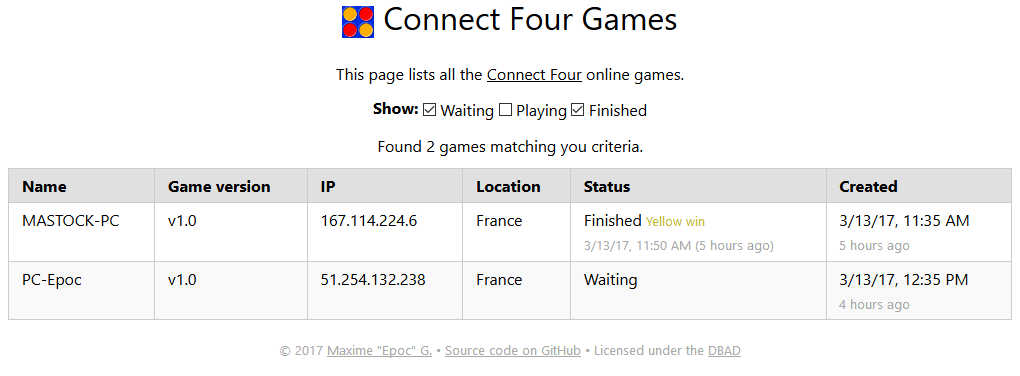
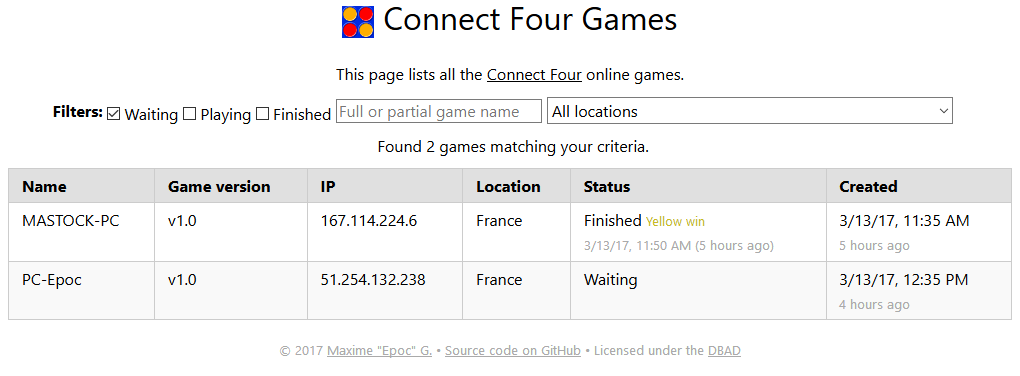
Add game name and location filters on the web page

Changed region(s): [[0.0304, 0.2633, 0.6382, 0.3218], [0.5775, 0.3803, 0.6382, 0.4096]]

diff --git a/templates/home.html b/templates/home.html
@@ -4,10 +4,17 @@
     <p class="txtcenter">This page lists all the <a href="https://github.com/EpocDotFr/connectfour">Connect Four</a> online games.</p>
 
     <form action="{{ url_for('home') }}" method="GET" class="mts">
-        <p class="txtcenter"><strong>Show:</strong> 
+        <p class="txtcenter"><strong>Filters:</strong> 
             <label><input type="checkbox" name="status" value="WAITING" onChange="this.form.submit()" {% if 'WAITING' in statuses %}checked{% endif %}> Waiting</label>
             <label><input type="checkbox" name="status" value="PLAYING" onChange="this.form.submit()" {% if 'PLAYING' in statuses %}checked{% endif %}> Playing</label>
             <label><input type="checkbox" name="status" value="FINISHED" onChange="this.form.submit()" {% if 'FINISHED' in statuses %}checked{% endif %}> Finished</label>
+            <input type="text" name="name" value="{{ request.args.name }}" placeholder="Full or partial game name" minlength="3">
+            <select name="country" onChange="this.form.submit()">
+                <option value="">All locations</option>
+                {% for country in iso3166.countries %}
+                    <option value="{{ country.alpha2 }}" {% if request.args.country == country.alpha2 %}checked{% endif %}>{{ country.name }}</option>
+                {% endfor %}
+            </select>
         </p>
 
         <p class="txtcenter">Found {{ games|length }} game{% if games|length > 1 %}s{% endif %} matching your criteria.</p>

diff --git a/cfms.py b/cfms.py
@@ -24,7 +24,7 @@ app.config['SQLALCHEMY_DATABASE_URI'] = 'sqlite:///storage/data/db.sqlite'
 app.config['SQLALCHEMY_TRACK_MODIFICATIONS'] = False
 app.config['BUNDLE_ERRORS'] = True
 
-app.jinja_env.globals.update(arrow=arrow)
+app.jinja_env.globals.update(arrow=arrow, iso3166=iso3166)
 
 db = SQLAlchemy(app)
 api = Api(app, prefix='/api', catch_all_404s=True)
@@ -55,7 +55,14 @@ def home():
     else:
         statuses = [GameStatus.WAITING.value]
 
-    return render_template('home.html', games=Game.query.get_all_for_home(statuses=[GameStatus(status) for status in statuses]), statuses=statuses)
+    name = request.args.get('name')
+    country = request.args.get('country')
+
+    return render_template(
+        'home.html',
+        games=Game.query.get_all_for_home(statuses=[GameStatus(status) for status in statuses], name=name, country=country),
+        statuses=statuses
+    )
 
 
 # -----------------------------------------------------------
